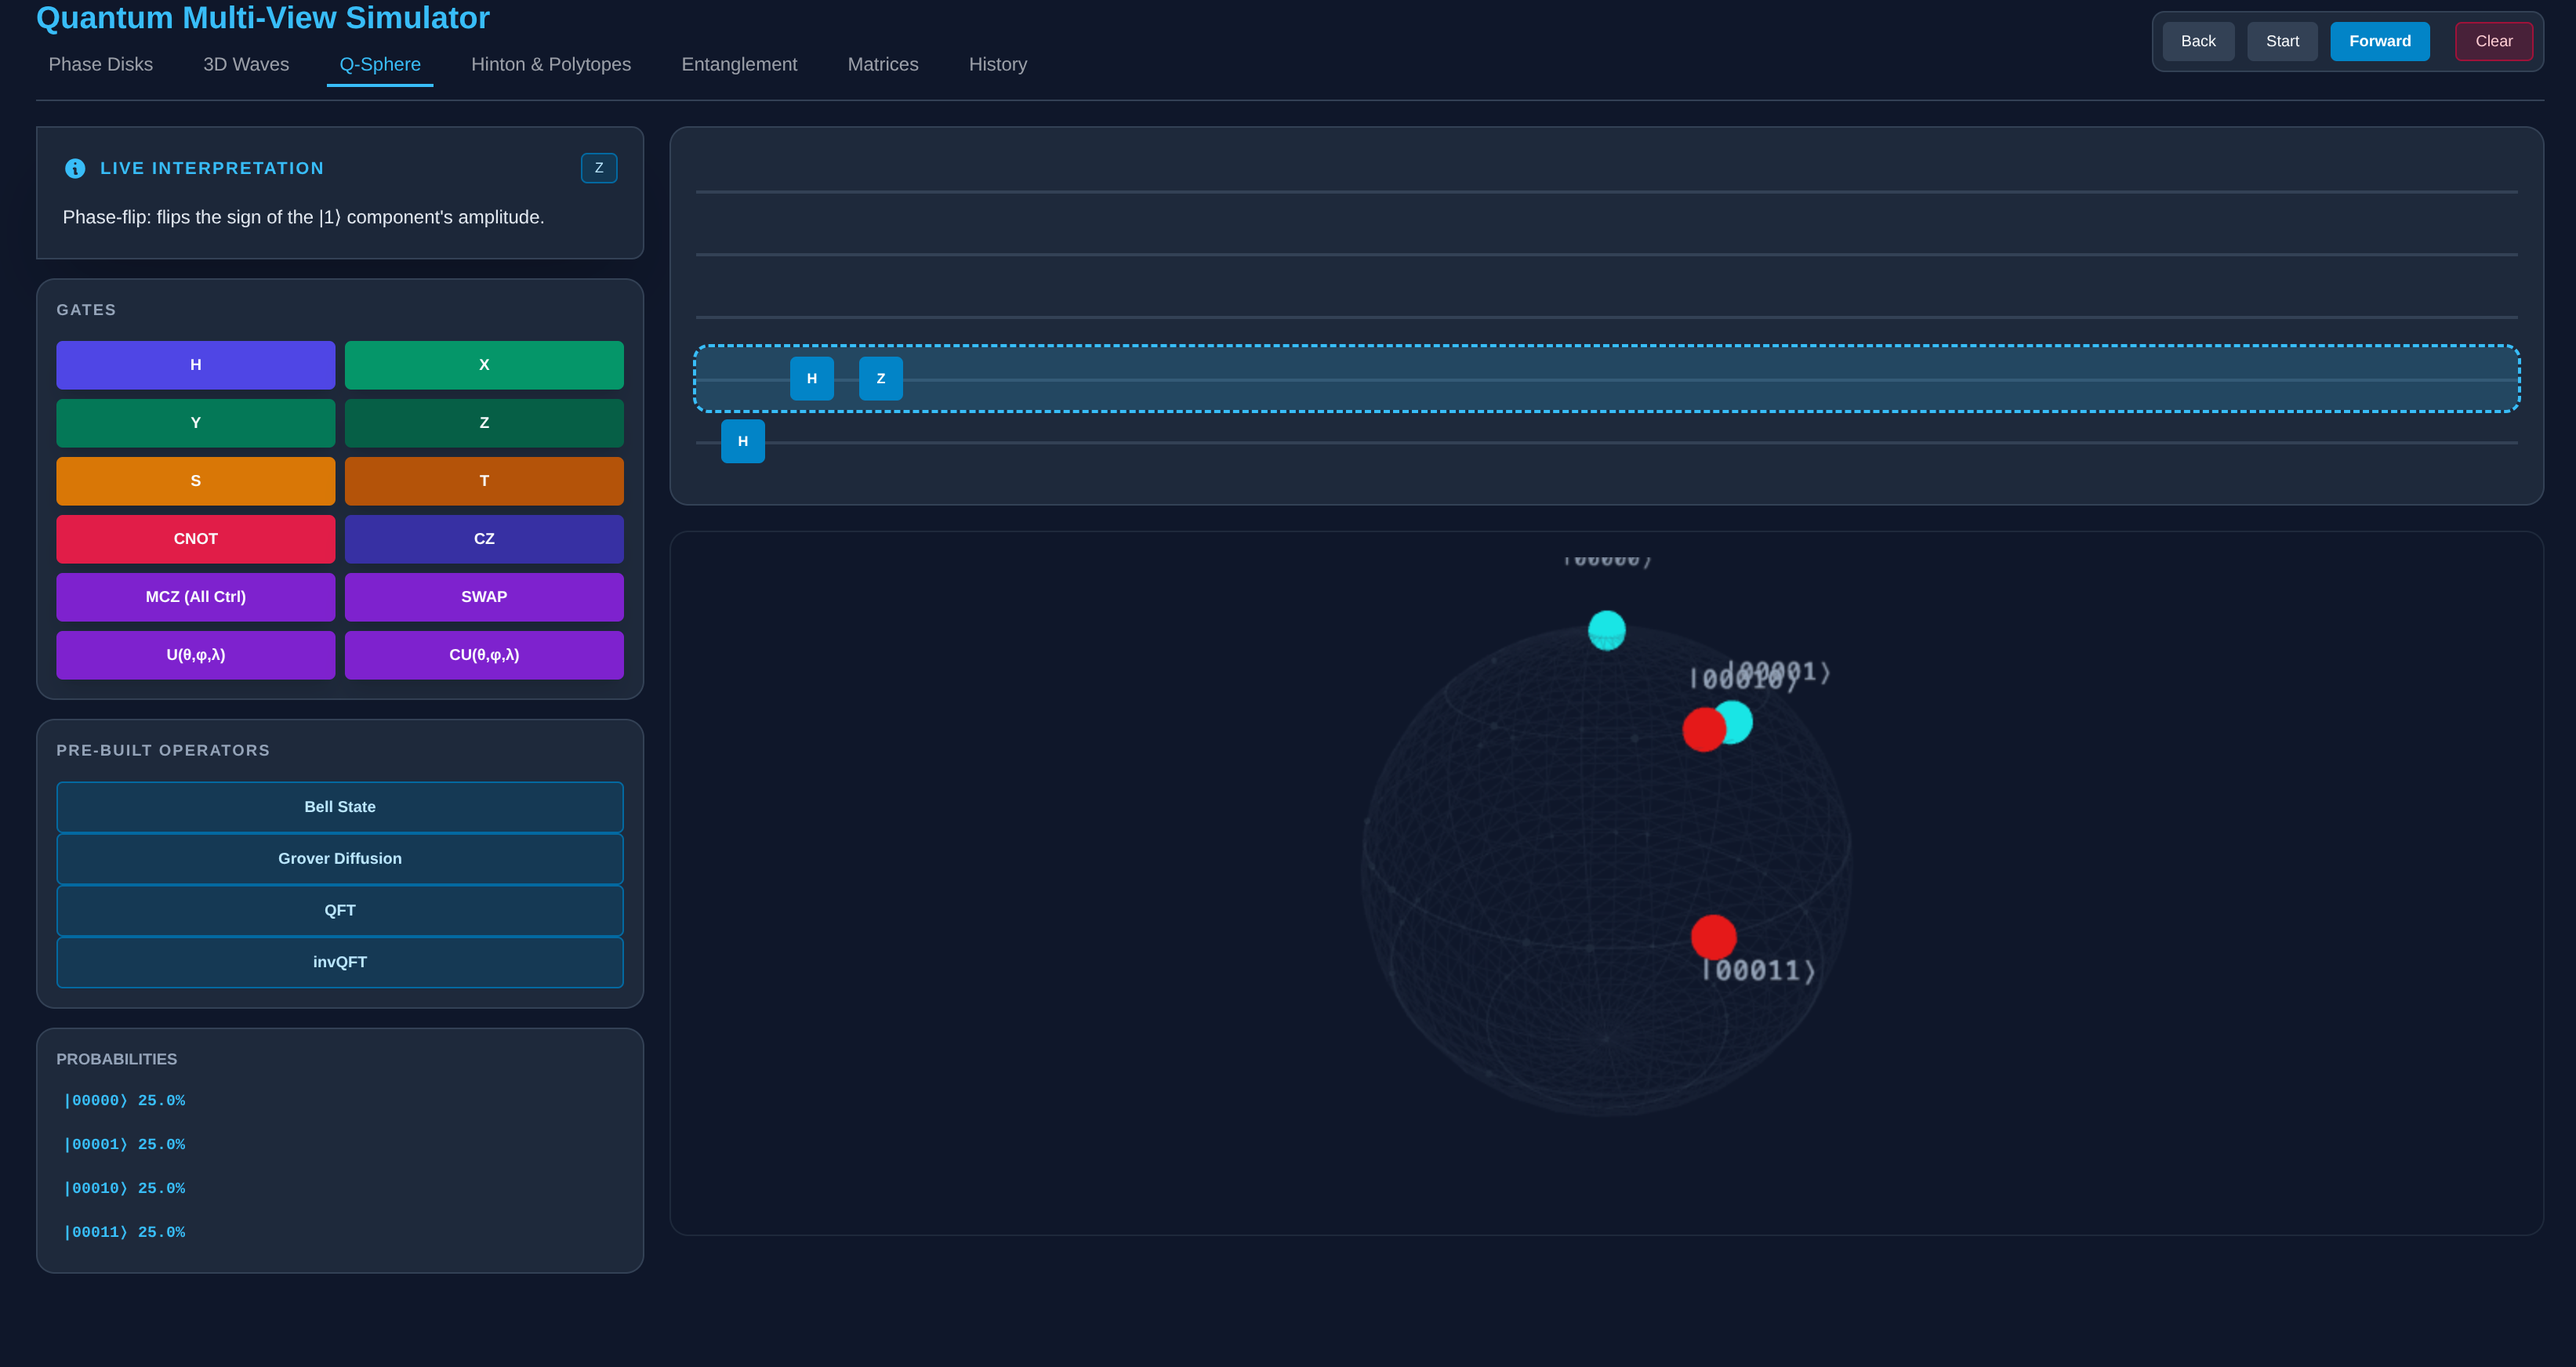
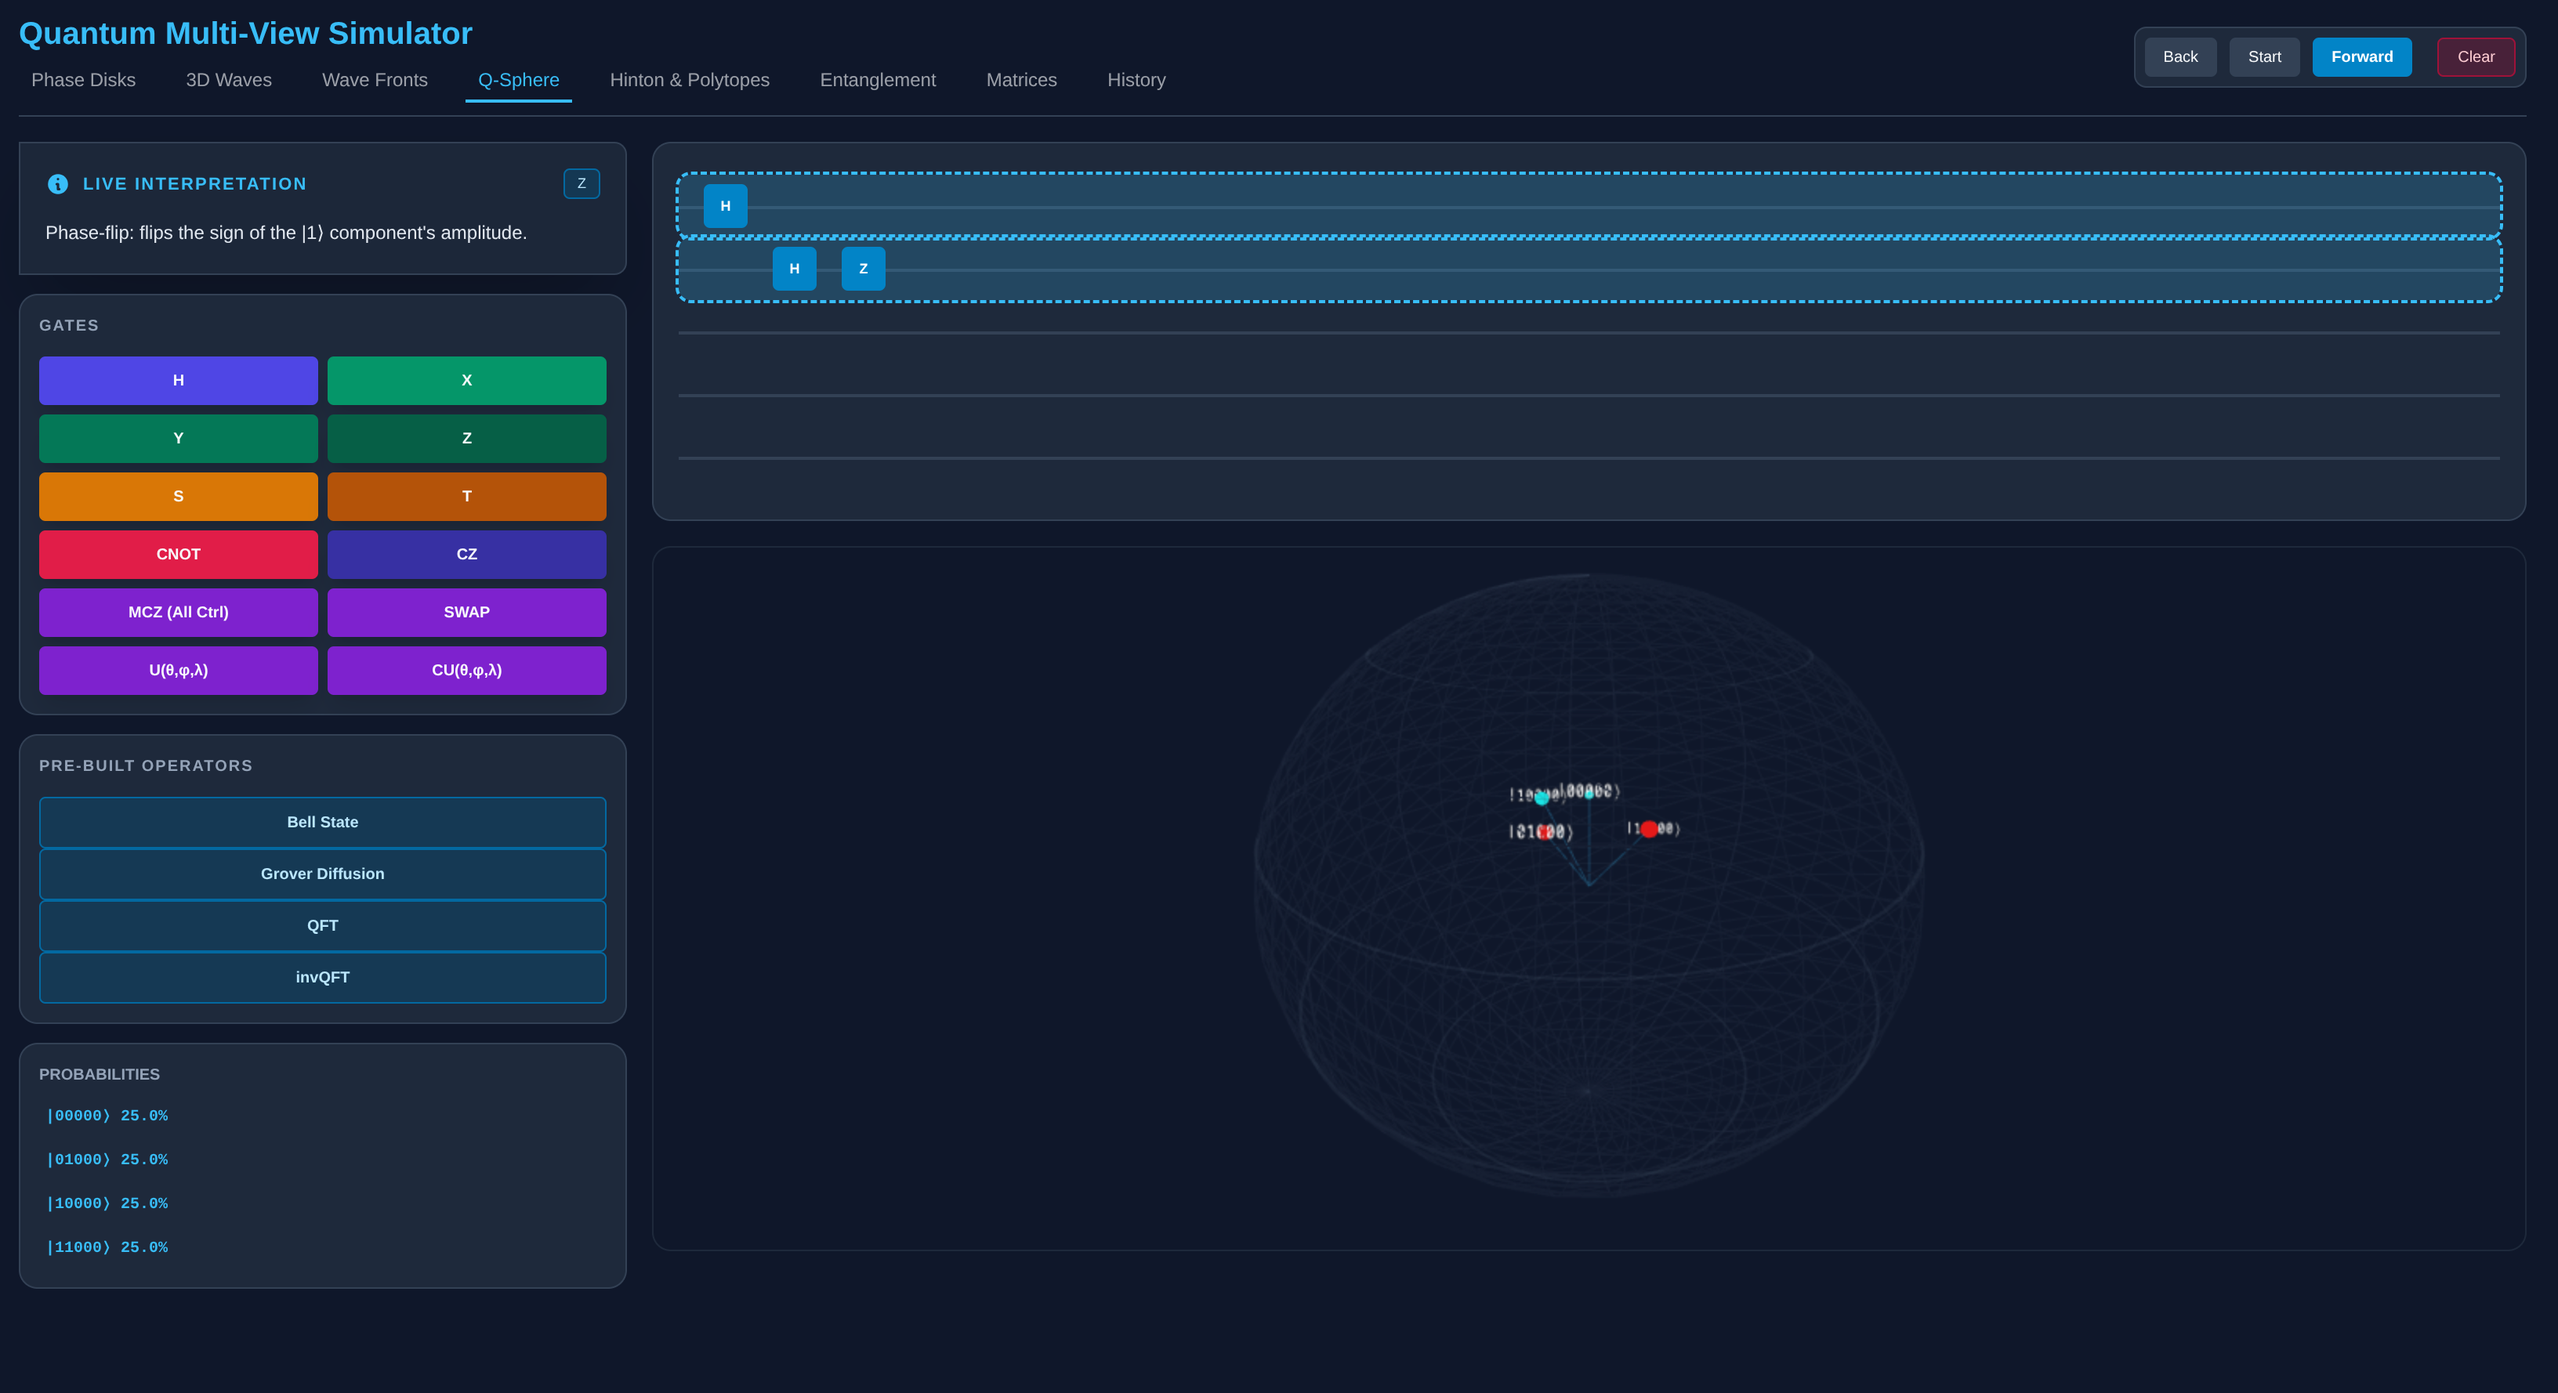
New screen shots

diff --git a/README.md b/README.md
@@ -34,8 +34,16 @@ how different states are "out of phase". In this case, they are
   <img src="screenshots/waveview2.png" width="75%">
 </p>
 
+This shows the state of the system as wave fronts (like water waves).
+
+<p align="center">
+  <img src="screenshots/wavefront.png" width="75%">
+</p>
+
 This screenshot shows the Q-Sphere view, similar to the IBM Qiskit
-Q-Sphere.
+Q-Sphere. The probability is used to position the node from the
+center of the Q-sphere. The color indicates the phase, and the size
+of the node is based on the number of 1 bits.
 
 <p align="center">
   <img src="screenshots/qsphere.png" width="75%">
